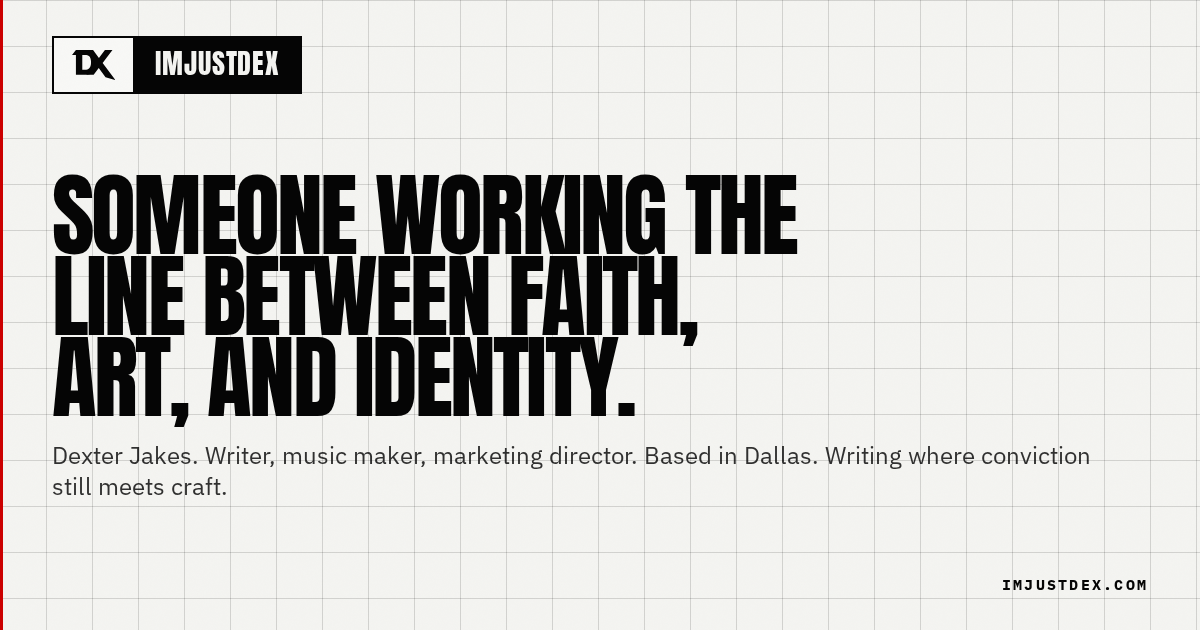
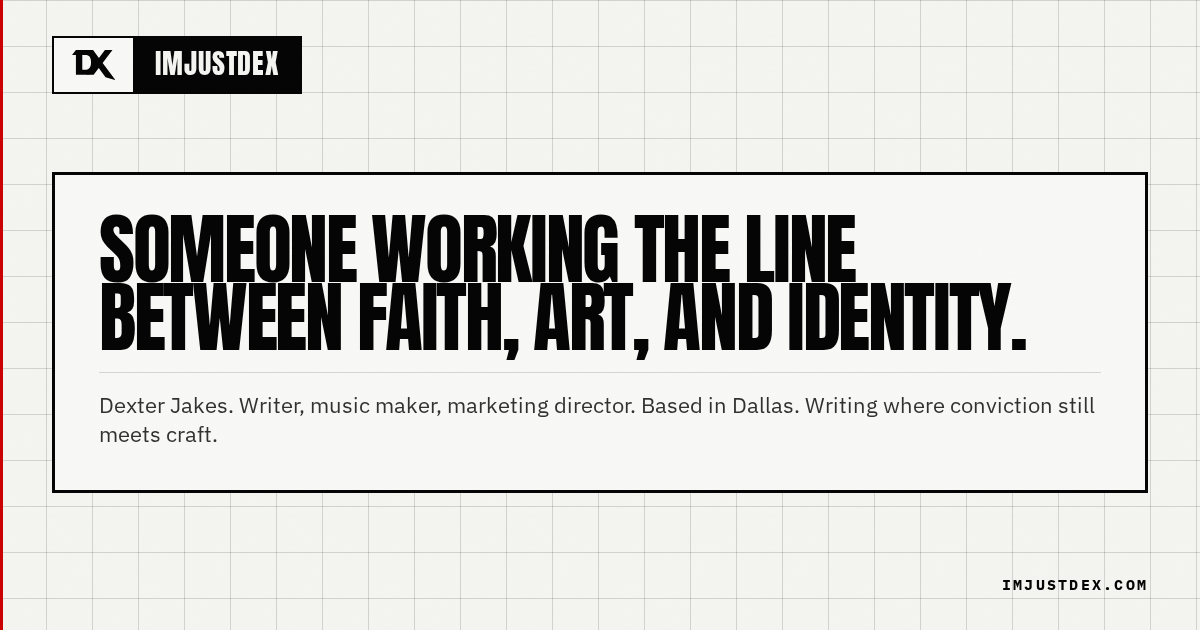
OG v2 — bordered plate container, homepage OG added, cache-bust phase26

diff --git a/index.html b/index.html
@@ -15,7 +15,10 @@
   <!-- Open Graph -->
   <meta property="og:title" content="Dexter Jakes — Essays on faith, identity and art">
   <meta property="og:description" content="No highlight reel. Just the full human, documented.">
-  <meta property="og:image" content="https://imjustdex.com/img/og-default.png">
+  <meta property="og:image" content="https://imjustdex.com/img/og-default.png?v=phase26">
+  <meta property="og:image:width" content="1200">
+  <meta property="og:image:height" content="630">
+  <meta property="og:image:alt" content="imjustdex.com — Essays on faith, identity, and art.">
   <meta property="og:url" content="https://imjustdex.com/">
   <meta property="og:type" content="website">
   <meta property="og:site_name" content="Dexter Jakes">
@@ -24,7 +27,7 @@
   <meta name="twitter:card" content="summary_large_image">
   <meta name="twitter:title" content="Dexter Jakes — Essays on faith, identity and art">
   <meta name="twitter:description" content="No highlight reel. Just the full human, documented.">
-  <meta name="twitter:image" content="https://imjustdex.com/img/og-default.png">
+  <meta name="twitter:image" content="https://imjustdex.com/img/og-default.png?v=phase26">
 
   <!-- Self-hosted font preloads: first paint of display + body text with no layout shift -->
   <link rel="preload" as="font" type="font/woff2" href="/fonts/Anton-Regular.woff2" crossorigin>

diff --git a/words/gloria/index.html b/words/gloria/index.html
@@ -15,7 +15,7 @@
   <!-- Open Graph -->
   <meta property="og:title" content="The Groan Beneath the Song">
   <meta property="og:description" content="A reflection on music as prayer — what Psalm 88, Romans 8, and a Kendrick Lamar song taught me about the groan beneath articulated speech.">
-  <meta property="og:image" content="https://imjustdex.com/img/og-gloria.png?v=phase25">
+  <meta property="og:image" content="https://imjustdex.com/img/og-gloria.png?v=phase26">
   <meta property="og:image:width" content="1200">
   <meta property="og:image:height" content="630">
   <meta property="og:image:alt" content="The Groan Beneath the Song">
@@ -29,7 +29,7 @@
   <meta name="twitter:card" content="summary_large_image">
   <meta name="twitter:title" content="The Groan Beneath the Song">
   <meta name="twitter:description" content="A reflection on music as prayer — what Psalm 88, Romans 8, and a Kendrick Lamar song taught me about the groan beneath articulated speech.">
-  <meta name="twitter:image" content="https://imjustdex.com/img/og-gloria.png?v=phase25">
+  <meta name="twitter:image" content="https://imjustdex.com/img/og-gloria.png?v=phase26">
 
   <!-- Self-hosted font preloads -->
   <link rel="preload" as="font" type="font/woff2" href="/fonts/Anton-Regular.woff2" crossorigin>

diff --git a/words/should-have-killed-it/index.html b/words/should-have-killed-it/index.html
@@ -15,7 +15,7 @@
   <!-- Open Graph -->
   <meta property="og:title" content="The Thing That Should Have Killed It">
   <meta property="og:description" content="What happens when mercy reaches further than the record says it should.">
-  <meta property="og:image" content="https://imjustdex.com/img/og-should-have-killed-it.png?v=phase25">
+  <meta property="og:image" content="https://imjustdex.com/img/og-should-have-killed-it.png?v=phase26">
   <meta property="og:image:width" content="1200">
   <meta property="og:image:height" content="630">
   <meta property="og:image:alt" content="The Thing That Should Have Killed It">
@@ -29,7 +29,7 @@
   <meta name="twitter:card" content="summary_large_image">
   <meta name="twitter:title" content="The Thing That Should Have Killed It">
   <meta name="twitter:description" content="What happens when mercy reaches further than the record says it should.">
-  <meta name="twitter:image" content="https://imjustdex.com/img/og-should-have-killed-it.png?v=phase25">
+  <meta name="twitter:image" content="https://imjustdex.com/img/og-should-have-killed-it.png?v=phase26">
 
   <!-- Self-hosted font preloads -->
   <link rel="preload" as="font" type="font/woff2" href="/fonts/Anton-Regular.woff2" crossorigin>

diff --git a/words/music-that-raised-me/index.html b/words/music-that-raised-me/index.html
@@ -15,7 +15,7 @@
   <!-- Open Graph -->
   <meta property="og:title" content="The Music That Raised Me">
   <meta property="og:description" content="People hear 'Jakes household' and assume we grew up on nothing but gospel. We didn't.">
-  <meta property="og:image" content="https://imjustdex.com/img/og-music-that-raised-me.png?v=phase25">
+  <meta property="og:image" content="https://imjustdex.com/img/og-music-that-raised-me.png?v=phase26">
   <meta property="og:image:width" content="1200">
   <meta property="og:image:height" content="630">
   <meta property="og:image:alt" content="The Music That Raised Me">
@@ -29,7 +29,7 @@
   <meta name="twitter:card" content="summary_large_image">
   <meta name="twitter:title" content="The Music That Raised Me">
   <meta name="twitter:description" content="People hear 'Jakes household' and assume we grew up on nothing but gospel. We didn't.">
-  <meta name="twitter:image" content="https://imjustdex.com/img/og-music-that-raised-me.png?v=phase25">
+  <meta name="twitter:image" content="https://imjustdex.com/img/og-music-that-raised-me.png?v=phase26">
 
   <!-- Self-hosted font preloads -->
   <link rel="preload" as="font" type="font/woff2" href="/fonts/Anton-Regular.woff2" crossorigin>

diff --git a/words/job/index.html b/words/job/index.html
@@ -15,7 +15,7 @@
   <!-- Open Graph -->
   <meta property="og:title" content="The Theology of Staying on the Call">
   <meta property="og:description" content="On suffering, presence, and what it means to sit with someone in the dark — even over FaceTime.">
-  <meta property="og:image" content="https://imjustdex.com/img/og-job.png?v=phase25">
+  <meta property="og:image" content="https://imjustdex.com/img/og-job.png?v=phase26">
   <meta property="og:image:width" content="1200">
   <meta property="og:image:height" content="630">
   <meta property="og:image:alt" content="The Theology of Staying on the Call">
@@ -29,7 +29,7 @@
   <meta name="twitter:card" content="summary_large_image">
   <meta name="twitter:title" content="The Theology of Staying on the Call">
   <meta name="twitter:description" content="On suffering, presence, and what it means to sit with someone in the dark — even over FaceTime.">
-  <meta name="twitter:image" content="https://imjustdex.com/img/og-job.png?v=phase25">
+  <meta name="twitter:image" content="https://imjustdex.com/img/og-job.png?v=phase26">
 
   <!-- Self-hosted font preloads -->
   <link rel="preload" as="font" type="font/woff2" href="/fonts/Anton-Regular.woff2" crossorigin>

diff --git a/words/not-the-same-as-alive/index.html b/words/not-the-same-as-alive/index.html
@@ -15,7 +15,7 @@
   <!-- Open Graph -->
   <meta property="og:title" content="Useful Is Not the Same as Alive">
   <meta property="og:description" content="The creative path not taken. What it cost. What it protected.">
-  <meta property="og:image" content="https://imjustdex.com/img/og-not-the-same-as-alive.png?v=phase25">
+  <meta property="og:image" content="https://imjustdex.com/img/og-not-the-same-as-alive.png?v=phase26">
   <meta property="og:image:width" content="1200">
   <meta property="og:image:height" content="630">
   <meta property="og:image:alt" content="Useful Is Not the Same as Alive">
@@ -29,7 +29,7 @@
   <meta name="twitter:card" content="summary_large_image">
   <meta name="twitter:title" content="Useful Is Not the Same as Alive">
   <meta name="twitter:description" content="The creative path not taken. What it cost. What it protected.">
-  <meta name="twitter:image" content="https://imjustdex.com/img/og-not-the-same-as-alive.png?v=phase25">
+  <meta name="twitter:image" content="https://imjustdex.com/img/og-not-the-same-as-alive.png?v=phase26">
 
   <!-- Self-hosted font preloads -->
   <link rel="preload" as="font" type="font/woff2" href="/fonts/Anton-Regular.woff2" crossorigin>

diff --git a/words/pulpit/index.html b/words/pulpit/index.html
@@ -15,7 +15,7 @@
   <!-- Open Graph -->
   <meta property="og:title" content="I Am Not My Father's Pulpit">
   <meta property="og:description" content="The word says &lsquo;some&rsquo; were called to pastor. I wasn&rsquo;t. But I was called.">
-  <meta property="og:image" content="https://imjustdex.com/img/og-pulpit.png?v=phase25">
+  <meta property="og:image" content="https://imjustdex.com/img/og-pulpit.png?v=phase26">
   <meta property="og:image:width" content="1200">
   <meta property="og:image:height" content="630">
   <meta property="og:image:alt" content="I Am Not My Father&#39;s Pulpit">
@@ -29,7 +29,7 @@
   <meta name="twitter:card" content="summary_large_image">
   <meta name="twitter:title" content="I Am Not My Father's Pulpit">
   <meta name="twitter:description" content="The word says &lsquo;some&rsquo; were called to pastor. I wasn&rsquo;t. But I was called.">
-  <meta name="twitter:image" content="https://imjustdex.com/img/og-pulpit.png?v=phase25">
+  <meta name="twitter:image" content="https://imjustdex.com/img/og-pulpit.png?v=phase26">
 
   <!-- Self-hosted font preloads -->
   <link rel="preload" as="font" type="font/woff2" href="/fonts/Anton-Regular.woff2" crossorigin>

diff --git a/words/reckonings/index.html b/words/reckonings/index.html
@@ -15,7 +15,7 @@
   <!-- Open Graph -->
   <meta property="og:title" content="I Don't Do Resolutions I Do Reckonings">
   <meta property="og:description" content="Some stories don't wait for a happy ending to be worth telling.">
-  <meta property="og:image" content="https://imjustdex.com/img/og-reckonings.png?v=phase25">
+  <meta property="og:image" content="https://imjustdex.com/img/og-reckonings.png?v=phase26">
   <meta property="og:image:width" content="1200">
   <meta property="og:image:height" content="630">
   <meta property="og:image:alt" content="I Don&#39;t Do Resolutions I Do Reckonings">
@@ -29,7 +29,7 @@
   <meta name="twitter:card" content="summary_large_image">
   <meta name="twitter:title" content="I Don't Do Resolutions I Do Reckonings">
   <meta name="twitter:description" content="Some stories don't wait for a happy ending to be worth telling.">
-  <meta name="twitter:image" content="https://imjustdex.com/img/og-reckonings.png?v=phase25">
+  <meta name="twitter:image" content="https://imjustdex.com/img/og-reckonings.png?v=phase26">
 
   <!-- Self-hosted font preloads -->
   <link rel="preload" as="font" type="font/woff2" href="/fonts/Anton-Regular.woff2" crossorigin>

diff --git a/words/next-verse/index.html b/words/next-verse/index.html
@@ -15,7 +15,7 @@
   <!-- Open Graph -->
   <meta property="og:title" content="Read the Next Verse.">
   <meta property="og:description" content="Every 'wives submit' passage has a second half. I spent most of my life ignoring it.">
-  <meta property="og:image" content="https://imjustdex.com/img/og-next-verse.png?v=phase25">
+  <meta property="og:image" content="https://imjustdex.com/img/og-next-verse.png?v=phase26">
   <meta property="og:image:width" content="1200">
   <meta property="og:image:height" content="630">
   <meta property="og:image:alt" content="Read the Next Verse.">
@@ -29,7 +29,7 @@
   <meta name="twitter:card" content="summary_large_image">
   <meta name="twitter:title" content="Read the Next Verse.">
   <meta name="twitter:description" content="Every 'wives submit' passage has a second half. I spent most of my life ignoring it.">
-  <meta name="twitter:image" content="https://imjustdex.com/img/og-next-verse.png?v=phase25">
+  <meta name="twitter:image" content="https://imjustdex.com/img/og-next-verse.png?v=phase26">
 
   <!-- Self-hosted font preloads -->
   <link rel="preload" as="font" type="font/woff2" href="/fonts/Anton-Regular.woff2" crossorigin>

diff --git a/words/the-nets/index.html b/words/the-nets/index.html
@@ -15,7 +15,7 @@
   <!-- Open Graph -->
   <meta property="og:title" content="The Nets Were Already Full">
   <meta property="og:description" content="What the Galilee shore teaches about the sequence most ministries get wrong.">
-  <meta property="og:image" content="https://imjustdex.com/img/og-the-nets.png?v=phase25">
+  <meta property="og:image" content="https://imjustdex.com/img/og-the-nets.png?v=phase26">
   <meta property="og:image:width" content="1200">
   <meta property="og:image:height" content="630">
   <meta property="og:image:alt" content="The Nets Were Already Full">
@@ -29,7 +29,7 @@
   <meta name="twitter:card" content="summary_large_image">
   <meta name="twitter:title" content="The Nets Were Already Full">
   <meta name="twitter:description" content="What the Galilee shore teaches about the sequence most ministries get wrong.">
-  <meta name="twitter:image" content="https://imjustdex.com/img/og-the-nets.png?v=phase25">
+  <meta name="twitter:image" content="https://imjustdex.com/img/og-the-nets.png?v=phase26">
 
   <!-- Self-hosted font preloads -->
   <link rel="preload" as="font" type="font/woff2" href="/fonts/Anton-Regular.woff2" crossorigin>

diff --git a/words/the-stone/index.html b/words/the-stone/index.html
@@ -15,7 +15,7 @@
   <!-- Open Graph -->
   <meta property="og:title" content="The Stone You're Holding">
   <meta property="og:description" content="On forgiveness, cancel culture, and the pride we mistake for righteousness.">
-  <meta property="og:image" content="https://imjustdex.com/img/og-the-stone.png?v=phase25">
+  <meta property="og:image" content="https://imjustdex.com/img/og-the-stone.png?v=phase26">
   <meta property="og:image:width" content="1200">
   <meta property="og:image:height" content="630">
   <meta property="og:image:alt" content="The Stone You&#39;re Holding">
@@ -29,7 +29,7 @@
   <meta name="twitter:card" content="summary_large_image">
   <meta name="twitter:title" content="The Stone You're Holding">
   <meta name="twitter:description" content="On forgiveness, cancel culture, and the pride we mistake for righteousness.">
-  <meta name="twitter:image" content="https://imjustdex.com/img/og-the-stone.png?v=phase25">
+  <meta name="twitter:image" content="https://imjustdex.com/img/og-the-stone.png?v=phase26">
 
   <!-- Self-hosted font preloads -->
   <link rel="preload" as="font" type="font/woff2" href="/fonts/Anton-Regular.woff2" crossorigin>

diff --git a/about/index.html b/about/index.html
@@ -15,7 +15,7 @@
   <!-- Open Graph -->
   <meta property="og:title" content="About — DX">
   <meta property="og:description" content="Est. 1994. Marketing director, music degree, husband, son, student of the text.">
-  <meta property="og:image" content="https://imjustdex.com/img/og-about.png?v=phase25">
+  <meta property="og:image" content="https://imjustdex.com/img/og-about.png?v=phase26">
   <meta property="og:image:width" content="1200">
   <meta property="og:image:height" content="630">
   <meta property="og:image:alt" content="No highlight reel. Just the human. — Dexter Jakes">
@@ -27,7 +27,7 @@
   <meta name="twitter:card" content="summary_large_image">
   <meta name="twitter:title" content="About — DX">
   <meta name="twitter:description" content="Est. 1994. Marketing director, music degree, husband, son, student of the text.">
-  <meta name="twitter:image" content="https://imjustdex.com/img/og-about.png?v=phase25">
+  <meta name="twitter:image" content="https://imjustdex.com/img/og-about.png?v=phase26">
 
   <!-- Self-hosted font preloads -->
   <link rel="preload" as="font" type="font/woff2" href="/fonts/Anton-Regular.woff2" crossorigin>
